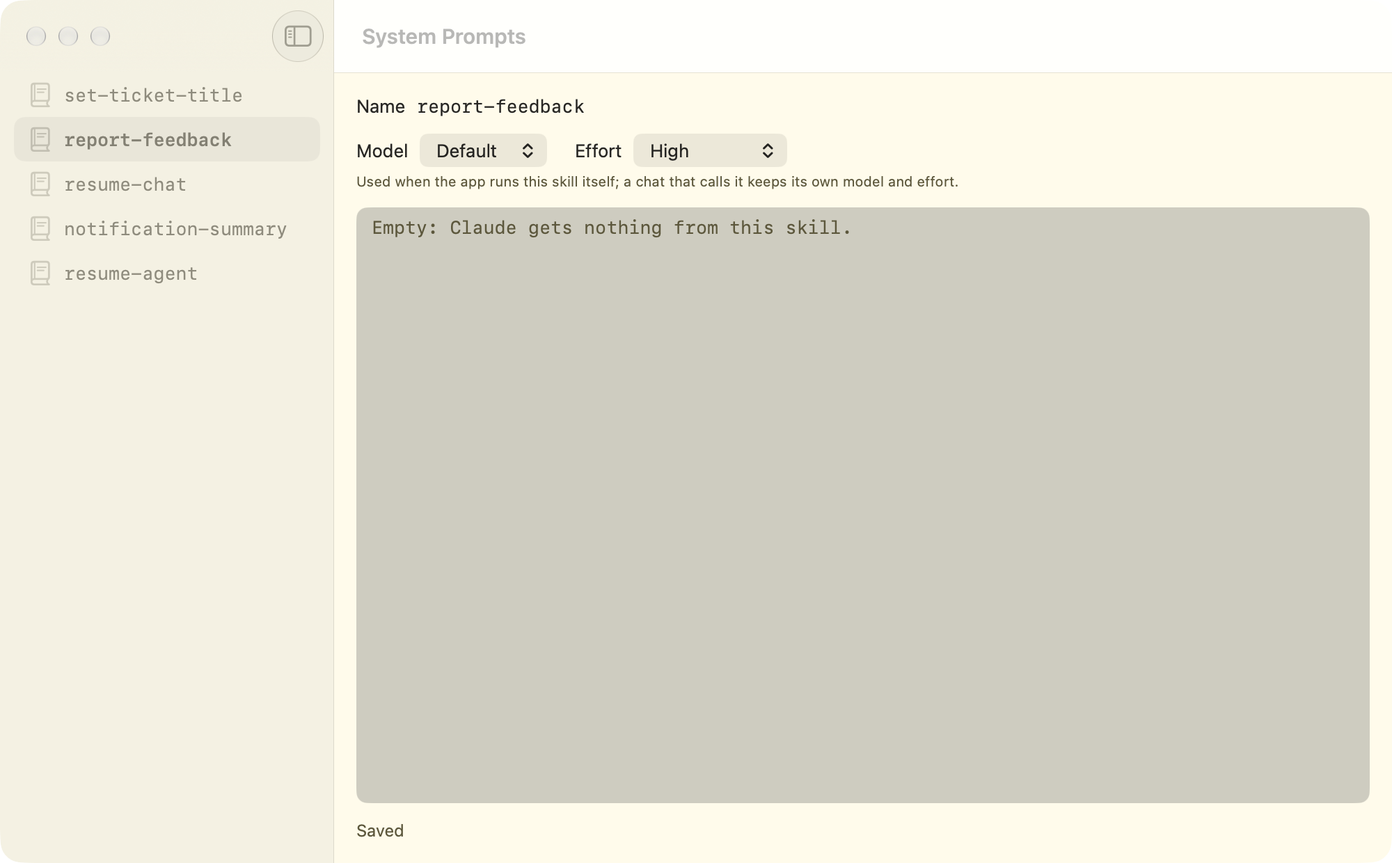
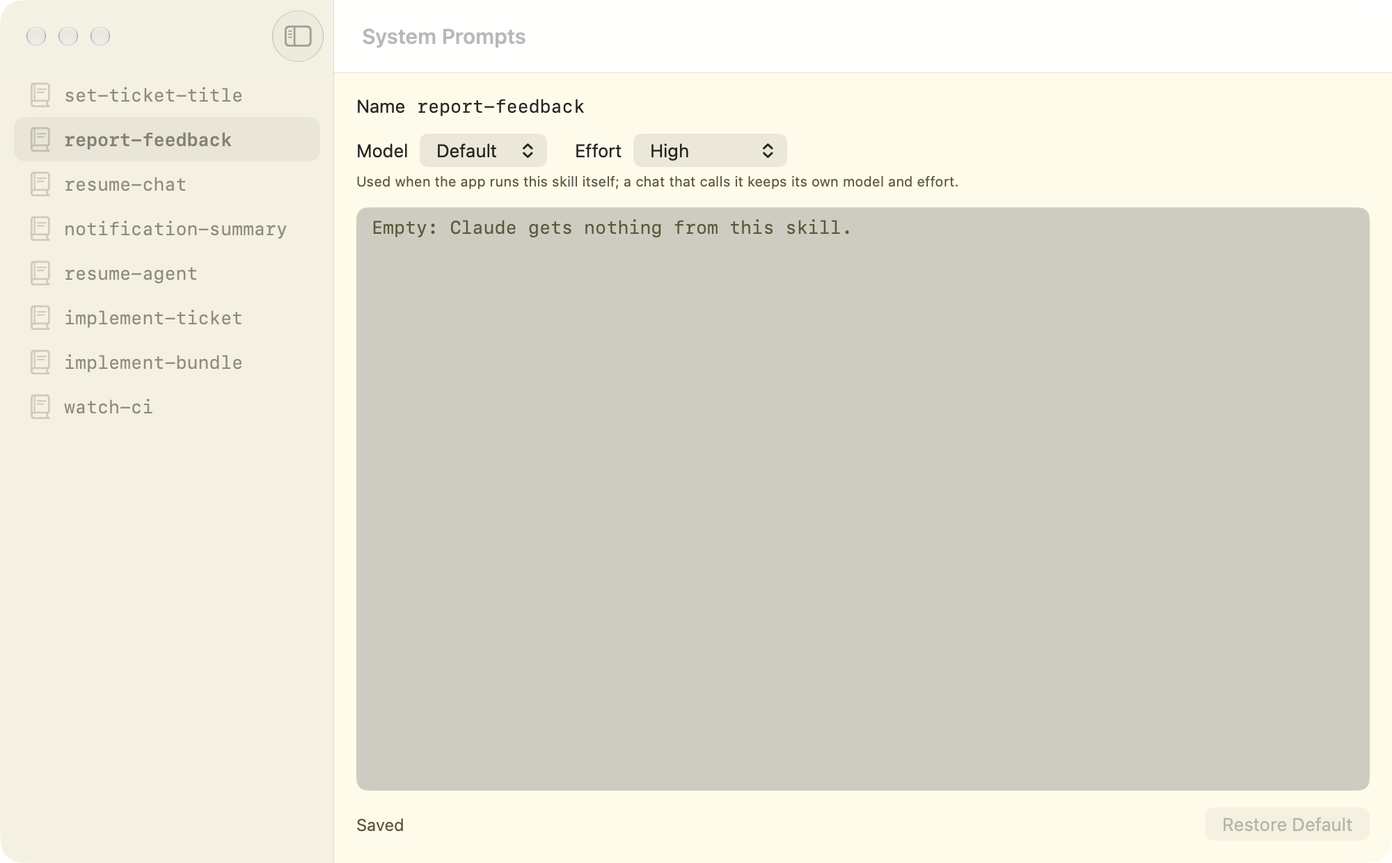
Untitled tickets get a title naming their subject: set-ticket-title has V3's own text, and System Prompts can restore a skill's defaults (HEPH-9)
set-ticket-title was empty, so Haiku described the ticket's state ("HEPH-4 is open (todo)…"). Its default text
now asks for a title of at most 80 characters naming what the ticket asks for or reports. A saved SKILL.md
replaces the defaults even when empty, so System Prompts gets Restore Default, after a confirmation, keeping the
file's other front matter lines. Screenshots updated: the list now shows all eight skills.

Changed region(s): [[0.248, 0.8887, 0.992, 0.9806], [0.031, 0.3677, 0.186, 0.429], [0.0, 0.4597, 0.093, 0.4903]]

diff --git a/HephaestusV3Kit/Sources/ChatKit/SystemPromptsView.swift b/HephaestusV3Kit/Sources/ChatKit/SystemPromptsView.swift
@@ -144,6 +144,20 @@ final class SystemPromptsModel {
         save(skill)
     }
 
+    /// Whether the skill's content, model and effort are the app's own.
+    func isDefault(_ skill: InternalSkill) -> Bool {
+        let current = values(of: skill)
+        return current.content == skill.defaults.content && current.model == skill.defaults.model && current.effort == skill.defaults.effort
+    }
+
+    /// Restore Default: the app's content, model and effort, saved at once; the file's other front matter lines stay.
+    func restoreDefaults(of skill: InternalSkill) {
+        var restored = skill.defaults
+        restored.otherLines = values(of: skill).otherLines
+        values[skill.name] = restored
+        save(skill)
+    }
+
     /// Saves a skill now when it has a change.
     func save(_ skill: InternalSkill) {
         pending[skill.name]?.cancel()
@@ -208,7 +222,9 @@ public struct SystemPromptsView: View {
                         model.setEffort(settings.effort, of: skill)
                     },
                     isSaved: model.isSaved(skill),
-                    failure: model.failures[skill.name]
+                    failure: model.failures[skill.name],
+                    isDefault: model.isDefault(skill),
+                    restoreDefaults: { model.restoreDefaults(of: skill) }
                 )
                 .id(skill.id)
             } else {
@@ -247,6 +263,9 @@ private struct SkillEditor: View {
     let setSettings: (ChatSettings) -> Void
     let isSaved: Bool
     let failure: String?
+    let isDefault: Bool
+    let restoreDefaults: () -> Void
+    @State private var confirmsRestore = false
 
     var body: some View {
         VStack(alignment: .leading, spacing: 12) {
@@ -287,7 +306,24 @@ private struct SkillEditor: View {
                 .accessibilityLabel(Text("Content", bundle: #bundle))
                 .accessibilityIdentifier("systemPrompts.content")
 
-            status
+            HStack(alignment: .firstTextBaseline) {
+                status
+                Spacer()
+                Button(String(localized: "Restore Default", bundle: #bundle)) {
+                    confirmsRestore = true
+                }
+                .disabled(isDefault)
+                .help(String(localized: "Gives this skill the app's content, model and effort back.", bundle: #bundle))
+                .accessibilityIdentifier("systemPrompts.restoreDefault")
+            }
+        }
+        .confirmationDialog(
+            String(localized: "Restore the default content, model and effort of \(skill.name)?", bundle: #bundle),
+            isPresented: $confirmsRestore
+        ) {
+            Button(String(localized: "Restore Default", bundle: #bundle), role: .destructive, action: restoreDefaults)
+        } message: {
+            Text("What you wrote in this skill is replaced by the app's own text.", bundle: #bundle)
         }
         .padding()
         .frame(maxWidth: .infinity, maxHeight: .infinity, alignment: .topLeading)
@@ -315,8 +351,14 @@ private struct SkillEditor: View {
 
 // MARK: Previews
 
-#Preview("Empty", traits: .fixedLayout(width: 900, height: 560)) {
+#Preview("Defaults", traits: .fixedLayout(width: 900, height: 560)) {
     SystemPromptsView(model: SystemPromptsModel(store: SampleInternalSkillStore()))
+}
+
+#Preview("Report Feedback, Empty", traits: .fixedLayout(width: 900, height: 560)) {
+    let model = SystemPromptsModel(store: SampleInternalSkillStore())
+    model.selection = InternalSkill.reportFeedback.id
+    return SystemPromptsView(model: model)
 }
 
 #Preview("Written, Dark", traits: .fixedLayout(width: 900, height: 560)) {

diff --git a/HephaestusV3Kit/Tests/ChatDataTests/InternalSkillTests.swift b/HephaestusV3Kit/Tests/ChatDataTests/InternalSkillTests.swift
@@ -14,7 +14,7 @@ struct InternalSkillTests {
         try body(DataFolder(url: url))
     }
 
-    @Test("The app defines set-ticket-title, empty, Haiku at a low effort, report-feedback, empty, resume-chat, with V3's text, both called from chats, and notification-summary, with V3's text, Haiku at a low effort; every name is in Claude's skill format, once")
+    @Test("The app defines set-ticket-title, with V3's text, Haiku at a low effort, report-feedback, empty, resume-chat, with V3's text, both called from chats, and notification-summary, with V3's text, Haiku at a low effort; every name is in Claude's skill format, once")
     func definitions() {
         #expect(InternalSkill.all.map(\.name) == ["set-ticket-title", "report-feedback", "resume-chat", "notification-summary", "resume-agent",
                                                     "implement-ticket", "implement-bundle", "watch-ci"])
@@ -27,7 +27,9 @@ struct InternalSkillTests {
         #expect(InternalSkill.notificationSummary.defaults.model == "haiku" && InternalSkill.notificationSummary.defaults.effort == .low)
         #expect(InternalSkill.resumeChat.isCalledFromChats && !InternalSkill.resumeChat.defaults.content.isEmpty)
         #expect(InternalSkill.resumeChat.command == "/hephaestus-skills:resume-chat")
-        #expect(InternalSkill.setTicketTitle.defaults == InternalSkillValues(content: "", model: "haiku", effort: .low))
+        #expect(InternalSkill.setTicketTitle.defaults.model == "haiku" && InternalSkill.setTicketTitle.defaults.effort == .low)
+        #expect(InternalSkill.setTicketTitle.defaults.content.contains("get_ticket")
+                    && InternalSkill.setTicketTitle.defaults.content.contains("Answer with the title alone"))
         #expect(!InternalSkill.setTicketTitle.isCalledFromChats && InternalSkill.reportFeedback.isCalledFromChats)
         #expect(InternalSkill.reportFeedback.defaults == InternalSkillValues(content: "", model: "default", effort: .high))
         #expect(InternalSkill(name: "plain").defaults == InternalSkillValues(content: "", model: "default", effort: .high))

diff --git a/HephaestusV3Kit/Sources/ChatData/InternalSkill.swift b/HephaestusV3Kit/Sources/ChatData/InternalSkill.swift
@@ -24,8 +24,15 @@ public struct InternalSkill: Hashable, Sendable, Identifiable {
     }
 
     /// Setting a ticket's title: the app runs it on each ticket created without a title, and for Generate Title.
-    /// A short answer, so a quick model at a low effort.
-    public static let setTicketTitle = InternalSkill(name: "set-ticket-title", defaultModel: "haiku", defaultEffort: .low)
+    /// A short answer, so a quick model at a low effort. Its default text is V3's own, so that titles name the
+    /// ticket's subject before the user writes one (HEPH-9).
+    public static let setTicketTitle = InternalSkill(name: "set-ticket-title", defaultContent: """
+        Give a ticket its title. The message links the ticket (its Attached: line), holds a description, or both: \
+        read a linked ticket with get_ticket; a description in the message is newer than the ticket's and replaces it.
+        The title names what the ticket asks for or reports, in at most 80 characters, such as "Line up the New \
+        Bundle + with the sidebar rows". Leave out the ticket's id, status, author and dates.
+        Answer with the title alone, on one line, without quotes, Markdown or a final period.
+        """, defaultModel: "haiku", defaultEffort: .low)
 
     /// Turning feedback into a ticket: the first message of a feedback chat calls it.
     public static let reportFeedback = InternalSkill(name: "report-feedback", isCalledFromChats: true)

diff --git a/HephaestusV3Kit/Tests/ChatKitTests/SystemPromptsTests.swift b/HephaestusV3Kit/Tests/ChatKitTests/SystemPromptsTests.swift
@@ -55,6 +55,20 @@ struct SystemPromptsTests {
         #expect(model.isSaved(skill))
     }
 
+    @Test("Restore Default gives back the app's content, model and effort, saved at once, other front matter lines kept (HEPH-9)")
+    func restoreDefaults() {
+        var written = InternalSkillValues(content: "Turn the feedback into tickets.", model: "sonnet", effort: .high, otherLines: ["description: Mine."])
+        let store = SampleInternalSkillStore(saved: ["set-ticket-title": written])
+        let model = SystemPromptsModel(store: store, saveDelay: .seconds(60))
+        #expect(!model.isDefault(skill))
+        model.restoreDefaults(of: skill)
+        written = skill.defaults
+        written.otherLines = ["description: Mine."]
+        #expect(store.saved["set-ticket-title"] == written)
+        #expect(model.isDefault(skill) && model.isSaved(skill))
+        #expect(model.content(of: skill).contains("get_ticket"))
+    }
+
     @Test("A failed save keeps the text and says why; the next one that works clears it")
     func failure() {
         let store = SampleInternalSkillStore(failure: .writeFailed(path: "skills/set-ticket-title/SKILL.md", reason: "Permission denied"))

diff --git a/docs/ui/system-prompts.md b/docs/ui/system-prompts.md
@@ -5,8 +5,8 @@ System Prompts is where the user writes what the app's own Claude skills say (th
 the model and effort the app runs each with when no chat calls it. The list holds the internal skills only: not
 the user's or the projects' own Claude skills.
 
-![System Prompts: set-ticket-title, report-feedback, resume-chat, notification-summary and resume-agent in the list, set-ticket-title selected, its name, Model Haiku and Effort Low, and its empty content](images/system-prompts.png)
-*System Prompts with `set-ticket-title` selected: Haiku at a low effort, empty.*
+![System Prompts: the internal skills in the list, set-ticket-title selected, its name, Model Haiku and Effort Low, its default content, Saved and a dimmed Restore Default](images/system-prompts.png)
+*System Prompts with `set-ticket-title` selected: Haiku at a low effort, V3's own text.*
 
 ## Opening it
 
@@ -20,7 +20,7 @@ Its tab reads "System Prompts", with `text.book.closed`.
 
 ## Anatomy
 
-![System Prompts with report-feedback selected: its name, Model Default, Effort High, and its empty content](images/system-prompts-report-feedback.png)
+![System Prompts with report-feedback selected: its name, Model Default, Effort High, its empty content, Saved and a dimmed Restore Default](images/system-prompts-report-feedback.png)
 *`report-feedback` selected: a skill chats call shows as any other.*
 
 A `NavigationSplitView`, inside the tab:
@@ -32,6 +32,7 @@ A `NavigationSplitView`, inside the tab:
 | **Model** and **Effort** | `systemPrompts.model`, `systemPrompts.effort` | Settings ▸ Chat's pickers, side by side: the CLI's models (its fallback list until the CLI has answered), then the selected model's effort levels (none for a model without effort). They set the model and effort the app uses when it runs the skill itself; a chat that calls the skill keeps its own (the user's request). Under them, in `caption` and `textSecondary`: "Used when the app runs this skill itself; a chat that calls it keeps its own model and effort." |
 | **Content**              | `systemPrompts.content`                       | A `TextEditor` in the monospaced body font, on `surfaceSunken`, filling the rest. While empty: "Empty: Claude gets nothing from this skill." in `textSecondary`. Its VoiceOver label is "Content".                                                                                                                                                                                                                                                                            |
 | **Status**               | `systemPrompts.status`                        | Under the content, in `callout`: "Saved" or "Editing…" in `textSecondary`; after a failed save, `exclamationmark.triangle.fill` and "Not saved: <reason>" in `danger`.                                                                                                                                                                                                                                                                                                        |
+| **Restore Default**      | `systemPrompts.restoreDefault`                | On the status's line, at its end: a button, dimmed while the content, model and effort are the skill's defaults. It asks first, "Restore the default content, model and effort of <name>?", "What you wrote in this skill is replaced by the app's own text.", **Restore Default** (destructive) and Cancel. Help: "Gives this skill the app's content, model and effort back."                                                                                               |
 | **Nothing selected**     | `systemPrompts.nothing`                       | "No Skill Selected", "Select an internal skill to edit its content."                                                                                                                                                                                                                                                                                                                                                                                                          |
 
 The window's title is "System Prompts". In narrow windows the list folds behind the sidebar button, as every
@@ -46,6 +47,9 @@ split view does.
 - A save that fails keeps the text, shows "Not saved: <reason>", and is tried again at the next change; the
   next save that works clears the message.
 - The file is read when the tab opens: a change made to it outside the app shows the next time.
+- **Restore Default** gives the skill its content, model and effort from the code and saves them at once, the
+  file's other front matter lines kept: a saved file replaces the defaults even when its content is empty, so
+  this is the way back to them (HEPH-9).
 
 ## Internal skills
 
@@ -59,16 +63,16 @@ run is for is linked as a chat's message links the item of its chip, with an `At
 So until the content says how to answer, the answer is what the model makes of the message and of what it
 reads.
 
-| Name                   | Default content                                                                                                                                                                                                                                                                                                                                | Default model and effort                                                         | Used by                                                                                                                                                                                                                                                                                                                                                                                                                                                                              |
-|------------------------|------------------------------------------------------------------------------------------------------------------------------------------------------------------------------------------------------------------------------------------------------------------------------------------------------------------------------------------------|----------------------------------------------------------------------------------|--------------------------------------------------------------------------------------------------------------------------------------------------------------------------------------------------------------------------------------------------------------------------------------------------------------------------------------------------------------------------------------------------------------------------------------------------------------------------------------|
-| `set-ticket-title`     | Empty                                                                                                                                                                                                                                                                                                                                          | Haiku, Low: a short answer (default chosen at design time)                       | A ticket created without a title (Claude's `create_ticket`, a feedback chat's for instance), and **Generate Title**, in New Ticket and in the ticket editor ([Tickets › Titles written by Claude](tickets.md#titles-written-by-claude)). Its message is the ticket's `Attached:` line, Claude reading the ticket whole (the user's request); in the editor, after the description being edited while it isn't saved; in New Ticket, before the ticket exists, the description alone. |
-| `report-feedback`      | Empty                                                                                                                                                                                                                                                                                                                                          | `default`, High (a chat's defaults; the app never runs it itself)                | The first message of a [feedback chat](chat.md#feedback), `/hephaestus-skills:report-feedback` then the comment and the feedback's context, screenshot and files (the user's request, as V2's `feedback` skill). What Claude does with the feedback, such as which ticket to create and its priority, is this skill's to say.                                                                                                                                                        |
-| `resume-chat`          | V3's own text: "Your last turn in this chat stopped with an error before it was finished. Look at what was already done, then finish what is left of the user's last request. Don't redo what is done."                                                                                                                                        | `default`, High (a chat's defaults; the app never runs it itself)                | **Resume**, after a chat stopped with an error ([Chat › Resume](chat.md#resume)): the message `/hephaestus-skills:resume-chat`. V2 sent a fixed sentence; the user asked for every text Claude acts on to be an internal skill (17 November 2026).                                                                                                                                                                                                                                   |
-| `notification-summary` | V3's own text: "The message tells what just happened in a chat between the user and Claude: Claude's last reply, or what Claude waits for the user to answer. Write the line of a notification about it: one plain sentence of at most 150 characters that says what it is about. Answer with the sentence alone, without quotes or Markdown." | Haiku, Low: a short answer, as V2's summary call (default chosen at design time) | A chat notification's line, while Settings ▸ Notifications ▸ **AI-generated summary** is on ([Chat › Notifications](chat.md#notifications)): the app runs it on Claude's reply, the card's request or the questions, at most 30 s. V2's internal skill of the same name; V3 writes its own text (no V2 prompt).                                                                                                                                                                      |
-| `resume-agent`         | V3's own text: "One of your agents in this chat stopped before it was finished. The arguments name it, with its agent id in parentheses. Resume that agent with SendMessage, telling it to go on from where it stopped."                                                                                                                       | `default`, High (a chat's defaults; the app never runs it itself)                | **Resume** in a sub-agent's view ([Chat › Agents](chat.md#agents)): `/hephaestus-skills:resume-agent <title> (agent id <id>)`. V2 sent a fixed sentence.                                                                                                                                                                                                                                                                                                                             |
-| `implement-ticket`     | V3's own text, [below](#implement-skills)                                                                                                                                                                                                                                                                                                      | `default`, High (a chat's defaults; the app never runs it itself)                | **Implement…** and `implement_ticket` ([Tickets › Implement](tickets.md#implement)): the first message of a ticket's chat, `/hephaestus-skills:implement-ticket <ticket id>`, with the bundle's id after it for a chat a bundle's chat started. V2's skill of the same name; V3 writes its own text (no V2 prompt).                                                                                                                                                                  |
-| `implement-bundle`     | V3's own text, [below](#implement-skills)                                                                                                                                                                                                                                                                                                      | `default`, High (a chat's defaults; the app never runs it itself)                | **Implement All…** and `implement_bundle`: the first message of a bundle's chat, `/hephaestus-skills:implement-bundle <bundle id>`. V2's skill of the same name; V3 writes its own text.                                                                                                                                                                                                                                                                                             |
-| `watch-ci`             | V3's own text, [below](#ci-skill)                                                                                                                                                                                                                                                                                                              | `default`, High (a chat's defaults; the app never runs it itself)                | A CI chat's first message, `/hephaestus-skills:watch-ci <commit>` with its project attached, which `watch_ci` starts after a push ([Chat › Implement chats](chat.md#implement-chats)). V2's CI chats had a skill as their system prompt; V3 calls one, as its other chats do, with its own text (no V2 prompt).                                                                                                                                                                      |
+| Name                   | Default content                                                                                                                                                                                                                                                                                                                                                                                                                                                                                                               | Default model and effort                                                         | Used by                                                                                                                                                                                                                                                                                                                                                                                                                                                                              |
+|------------------------|-------------------------------------------------------------------------------------------------------------------------------------------------------------------------------------------------------------------------------------------------------------------------------------------------------------------------------------------------------------------------------------------------------------------------------------------------------------------------------------------------------------------------------|----------------------------------------------------------------------------------|--------------------------------------------------------------------------------------------------------------------------------------------------------------------------------------------------------------------------------------------------------------------------------------------------------------------------------------------------------------------------------------------------------------------------------------------------------------------------------------|
+| `set-ticket-title`     | V3's own text: "Give a ticket its title. The message links the ticket (its Attached: line), holds a description, or both: read a linked ticket with get_ticket; a description in the message is newer than the ticket's and replaces it. The title names what the ticket asks for or reports, in at most 80 characters, such as “Line up the New Bundle + with the sidebar rows”. Leave out the ticket's id, status, author and dates. Answer with the title alone, on one line, without quotes, Markdown or a final period." | Haiku, Low: a short answer (default chosen at design time)                       | A ticket created without a title (Claude's `create_ticket`, a feedback chat's for instance), and **Generate Title**, in New Ticket and in the ticket editor ([Tickets › Titles written by Claude](tickets.md#titles-written-by-claude)). Its message is the ticket's `Attached:` line, Claude reading the ticket whole (the user's request); in the editor, after the description being edited while it isn't saved; in New Ticket, before the ticket exists, the description alone. |
+| `report-feedback`      | Empty                                                                                                                                                                                                                                                                                                                                                                                                                                                                                                                         | `default`, High (a chat's defaults; the app never runs it itself)                | The first message of a [feedback chat](chat.md#feedback), `/hephaestus-skills:report-feedback` then the comment and the feedback's context, screenshot and files (the user's request, as V2's `feedback` skill). What Claude does with the feedback, such as which ticket to create and its priority, is this skill's to say.                                                                                                                                                        |
+| `resume-chat`          | V3's own text: "Your last turn in this chat stopped with an error before it was finished. Look at what was already done, then finish what is left of the user's last request. Don't redo what is done."                                                                                                                                                                                                                                                                                                                       | `default`, High (a chat's defaults; the app never runs it itself)                | **Resume**, after a chat stopped with an error ([Chat › Resume](chat.md#resume)): the message `/hephaestus-skills:resume-chat`. V2 sent a fixed sentence; the user asked for every text Claude acts on to be an internal skill (17 November 2026).                                                                                                                                                                                                                                   |
+| `notification-summary` | V3's own text: "The message tells what just happened in a chat between the user and Claude: Claude's last reply, or what Claude waits for the user to answer. Write the line of a notification about it: one plain sentence of at most 150 characters that says what it is about. Answer with the sentence alone, without quotes or Markdown."                                                                                                                                                                                | Haiku, Low: a short answer, as V2's summary call (default chosen at design time) | A chat notification's line, while Settings ▸ Notifications ▸ **AI-generated summary** is on ([Chat › Notifications](chat.md#notifications)): the app runs it on Claude's reply, the card's request or the questions, at most 30 s. V2's internal skill of the same name; V3 writes its own text (no V2 prompt).                                                                                                                                                                      |
+| `resume-agent`         | V3's own text: "One of your agents in this chat stopped before it was finished. The arguments name it, with its agent id in parentheses. Resume that agent with SendMessage, telling it to go on from where it stopped."                                                                                                                                                                                                                                                                                                      | `default`, High (a chat's defaults; the app never runs it itself)                | **Resume** in a sub-agent's view ([Chat › Agents](chat.md#agents)): `/hephaestus-skills:resume-agent <title> (agent id <id>)`. V2 sent a fixed sentence.                                                                                                                                                                                                                                                                                                                             |
+| `implement-ticket`     | V3's own text, [below](#implement-skills)                                                                                                                                                                                                                                                                                                                                                                                                                                                                                     | `default`, High (a chat's defaults; the app never runs it itself)                | **Implement…** and `implement_ticket` ([Tickets › Implement](tickets.md#implement)): the first message of a ticket's chat, `/hephaestus-skills:implement-ticket <ticket id>`, with the bundle's id after it for a chat a bundle's chat started. V2's skill of the same name; V3 writes its own text (no V2 prompt).                                                                                                                                                                  |
+| `implement-bundle`     | V3's own text, [below](#implement-skills)                                                                                                                                                                                                                                                                                                                                                                                                                                                                                     | `default`, High (a chat's defaults; the app never runs it itself)                | **Implement All…** and `implement_bundle`: the first message of a bundle's chat, `/hephaestus-skills:implement-bundle <bundle id>`. V2's skill of the same name; V3 writes its own text.                                                                                                                                                                                                                                                                                             |
+| `watch-ci`             | V3's own text, [below](#ci-skill)                                                                                                                                                                                                                                                                                                                                                                                                                                                                                             | `default`, High (a chat's defaults; the app never runs it itself)                | A CI chat's first message, `/hephaestus-skills:watch-ci <commit>` with its project attached, which `watch_ci` starts after a push ([Chat › Implement chats](chat.md#implement-chats)). V2's CI chats had a skill as their system prompt; V3 calls one, as its other chats do, with its own text (no V2 prompt).                                                                                                                                                                      |
 
 **Called skills.** `report-feedback`, `resume-chat`, `resume-agent`, `implement-ticket`, `implement-bundle` and `watch-ci` are called from chats (V2's called skills); `set-ticket-title` and
 `notification-summary` the app runs itself. Every chat's CLI gets the called skills as the plugin `hephaestus-skills` ([Data › Chat

diff --git a/docs/decisions.md b/docs/decisions.md
@@ -316,6 +316,8 @@ skills only, each with a name in Claude's skill format and a content, starting w
 | Where is the content kept? | `<data folder>/skills/<name>/SKILL.md`, Claude's skill layout, with `name`, `model` and `effort` in its front matter, other front matter lines kept; the code keeps the list and each default. | [Data › Internal skills](data.md#internal-skills) |
 | Which model and effort by default? | Each skill's own from the code: `set-ticket-title` Haiku at Low, for a short answer; otherwise the CLI's `default` at High, as a new chat. The owner asked for a model and an effort per skill, used when no chat calls it. | [UI › System Prompts › Internal skills](ui/system-prompts.md#internal-skills) |
 | When is a change saved? | Content one second after the last keystroke; model and effort at once; everything when another skill is selected or the tab goes away. A line says Saved, Editing… or why it wasn't. | [UI › System Prompts › Saving](ui/system-prompts.md#saving) |
+| Does `set-ticket-title` have text of its own? | Yes, V3's own, as `notification-summary` and the implement skills: empty, untitled tickets got a title describing their state instead of their subject (HEPH-9). The user's text replaces it. | [UI › System Prompts › Internal skills](ui/system-prompts.md#internal-skills) |
+| How does a skill get its defaults back? | **Restore Default**, after a confirmation: a saved file replaces the defaults even when empty, so the page needs a way back (HEPH-9). | [UI › System Prompts › Saving](ui/system-prompts.md#saving) |
 | Which shortcut? | ⌥⌘,, beside Settings' ⌘, and Project Settings' ⇧⌘,. | [UI › System Prompts](ui/system-prompts.md) |
 | Which code owns it? | ChatData (the skills and their files) and ChatKit (the view), since the skills are what Claude is told. | [Architecture › ChatKit](architecture.md#chatkit) |
 

diff --git a/docs/ui/tickets.md b/docs/ui/tickets.md
@@ -551,7 +551,9 @@ A ticket created **without a title** (the user's request): by Claude's `create_t
 [feedback chat](chat.md#feedback)'s Claude may make it. It takes the description's first line as its provisional title at once,
 then the app runs `set-ticket-title` in the background with the ticket's link alone, as the editor's **Generate
 Title** does ([Generate Title](#generate-title)): Claude reads the ticket whole, attachments included (the
-screenshot a feedback chat attached):
+screenshot a feedback chat attached). The skill's default text, V3's own, asks for a title of at most 80
+characters naming what the ticket asks for or reports, without its id, status, author or dates ([System
+Prompts › Internal skills](system-prompts.md#internal-skills)):
 
 - When the answer gives a title ([Generate Title](#generate-title)'s rule), it replaces the provisional one,
   written by the app on its own: the history entry's author is `automatic`, and the activity reads "It was named

diff --git a/docs/data.md b/docs/data.md
@@ -2247,7 +2247,8 @@ effort: low
 
 - **`model`**: what the CLI's `--model` takes (`default`, `haiku`, `opus`, a model id); **`effort`**: `low`,
   `medium`, `high`, `xhigh` or `max`. They are what the app uses when it runs the skill itself; a chat that calls
-  the skill keeps its own. Each skill's defaults come from the code (`InternalSkill.defaults`): `set-ticket-title`
+  the skill keeps its own. Each skill's defaults come from the code (`InternalSkill.defaults`), and System Prompts'
+  **Restore Default** writes them back, other lines kept: `set-ticket-title`
   and `notification-summary` are `haiku` and `low`; a skill without its own is `default` and `high`, as a new chat.
 - **Reading** (`DataFolder.readSkill(_:)`): the front matter is the lines between a first `---` line and the
   next. `name` is ignored (the code's name stands); `model` with a value, and `effort` with one of the five levels,
